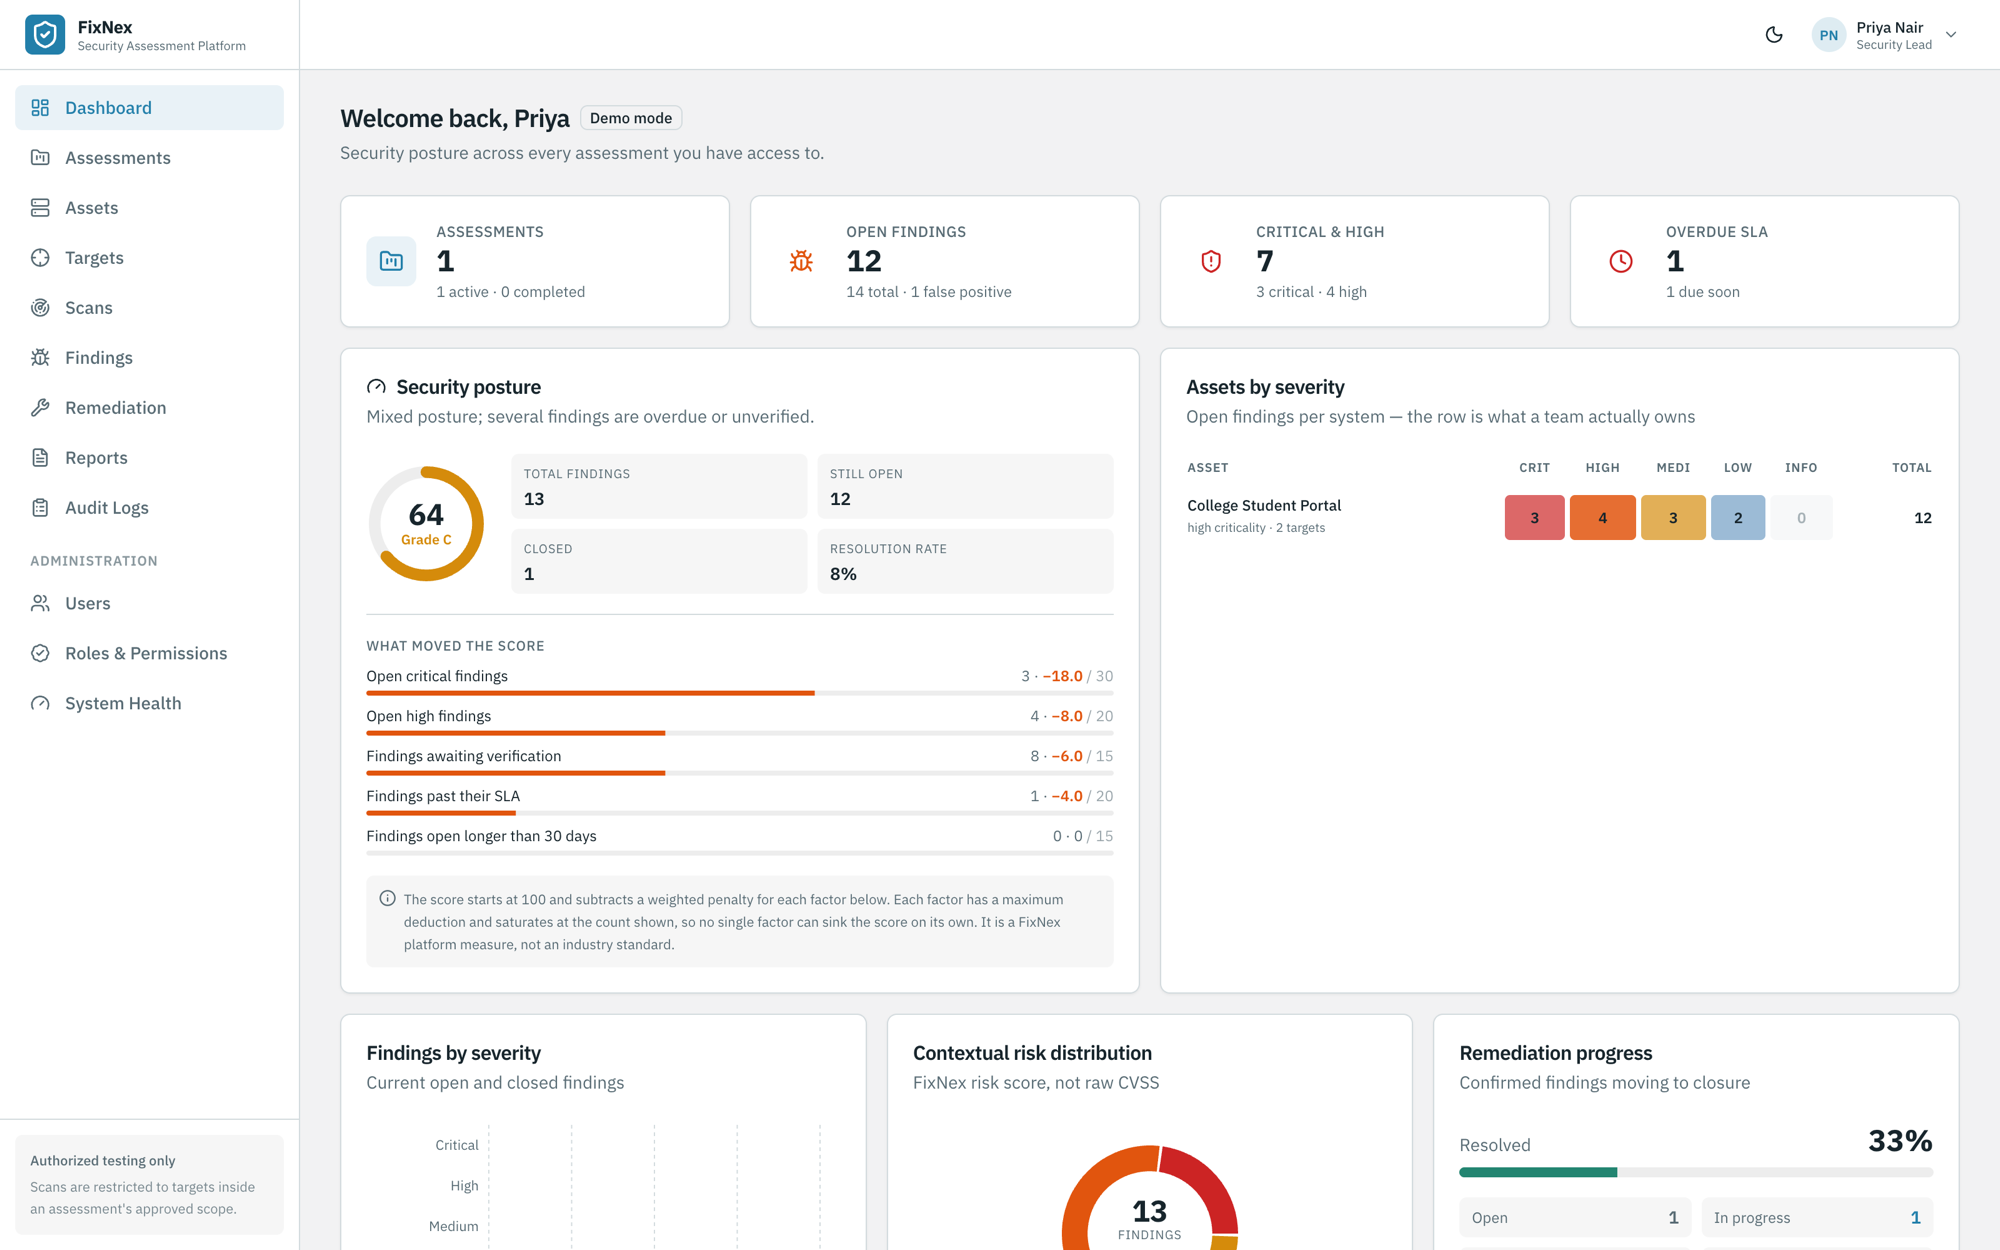
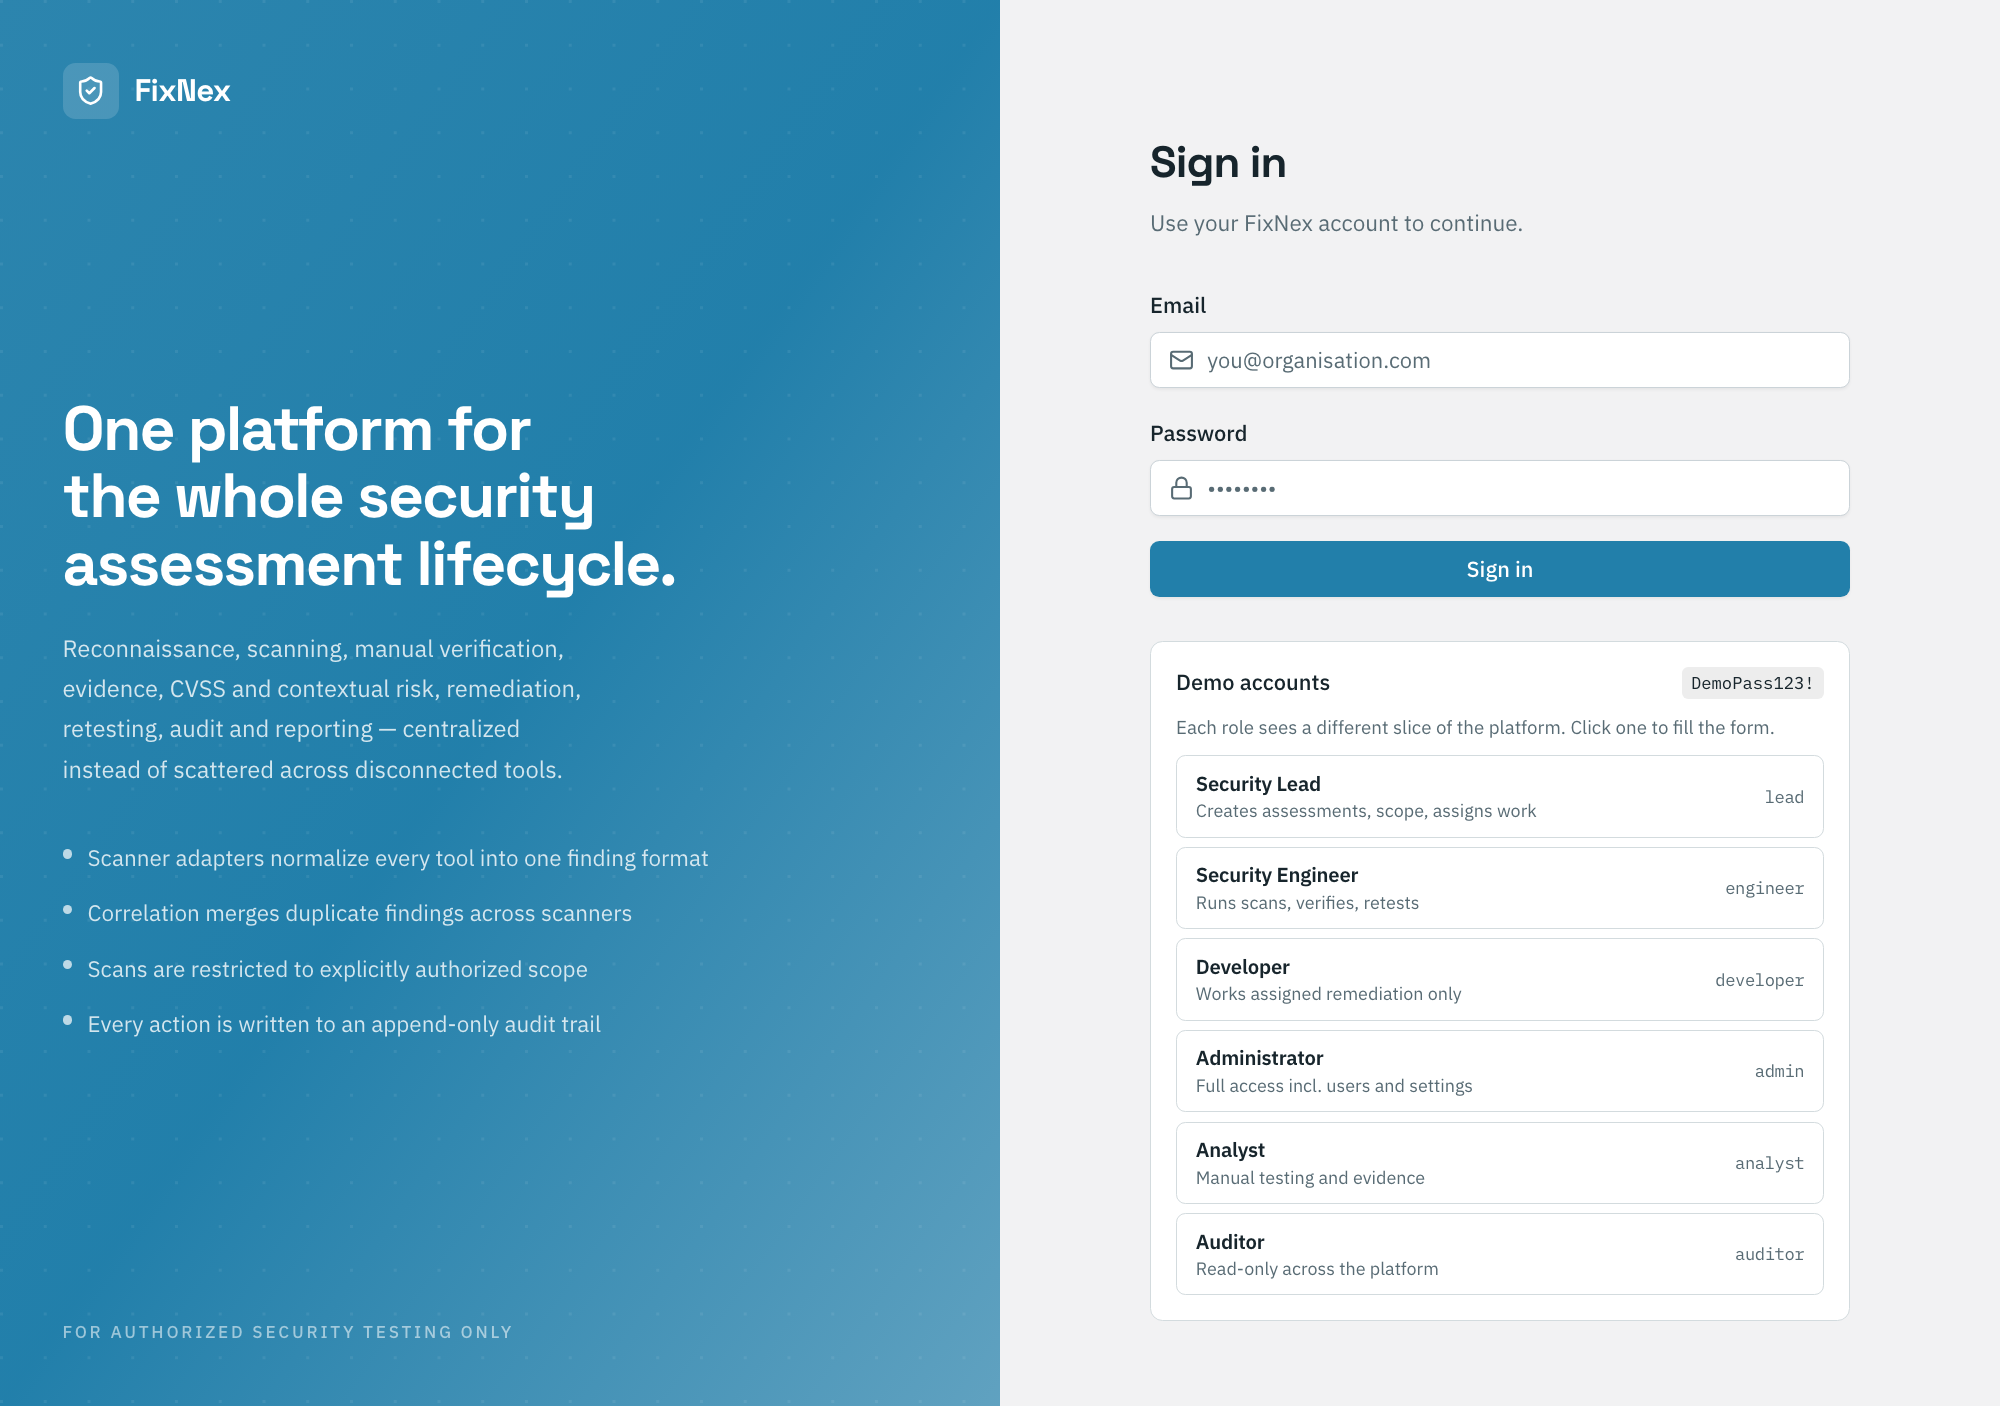
Update README for the motion work, type system and demo-account risk
- Replace docs/screenshots/login.png, which contained a dashboard capture
  rather than the sign-in page, with the actual login screen
- Record Motion and the Space Grotesk display face in the stack
- Document the motion system as a design decision, including the two places
  it deliberately departs from Motion
- Document RUN_MIGRATIONS_ON_STARTUP and SEED_ON_STARTUP, both of which are
  set in the deployment but were missing from the table
- Warn that the seeded demo accounts include a published ADMIN credential,
  with the order of operations for hardening an exposed instance
- Correct the project tree, which still carried the pre-rename directory name

diff --git a/README.md b/README.md
@@ -97,7 +97,8 @@ scanner names its fallback rather than presenting as a failure.</td>
 <td width="50%"><img src="docs/screenshots/dashboard-dark.png" alt="Dark theme"></td>
 </tr>
 <tr>
-<td><b>Sign in.</b> Six demo roles, each seeing a different slice of the platform.</td>
+<td><b>Sign in.</b> Six demo roles, each seeing a different slice of the platform. Click a
+role to fill the form.</td>
 <td><b>Dark theme.</b> The same hue family taken to a deep slate-teal, so both themes read
 as one product.</td>
 </tr>
@@ -188,7 +189,8 @@ Jinja2 + WeasyPrint (fpdf2 fallback), pandas + openpyxl.
 
 **Frontend** — React 19, Vite, TypeScript, Tailwind CSS, shadcn/ui-style components on
 Radix primitives, React Router, TanStack Query, Axios, React Hook Form + Zod, Recharts,
-Lucide icons.
+Motion (animation), Lucide icons. Type is IBM Plex Sans and IBM Plex Mono throughout,
+with Space Grotesk reserved for the sign-in headline and wordmark.
 
 ---
 
@@ -275,6 +277,23 @@ All demo accounts use the password **`DemoPass123!`**
 > Demo data is labelled **DEMO DATA** everywhere it appears — in the UI, the API
 > (`data_origin: SEEDED_DEMO`) and generated reports. It is never presented as the
 > output of a scan that actually ran.
+
+> [!WARNING]
+> **These accounts are for demonstration, not deployment.** The password above is
+> published in this README and printed on the sign-in page, and `admin@prcampus.io`
+> holds the `ADMIN` role — full access including users and settings. On any
+> internet-reachable instance that is a working administrator credential for anyone
+> who finds the URL. There is no public registration, so sign-in is the only way in,
+> which is exactly why this matters.
+>
+> Before exposing an instance beyond a demo:
+>
+> 1. Create your own administrator **first** — user creation requires `USER_CREATE`,
+>    so removing the demo admin before you have another one locks you out.
+> 2. Set `SEED_ON_STARTUP=false`. Deleting the demo users alone is not enough: an empty
+>    database re-seeds the whole set, published password included.
+> 3. Remove or downgrade the demo `ADMIN` account, and rotate `DEMO_PASSWORD` in
+>    `backend/app/seed/demo.py` if you keep the rest for a public showcase.
 
 ---
 
@@ -432,6 +451,8 @@ Copy `.env.example` to `.env`. Never commit `.env`.
 | `SLA_HOURS_CRITICAL` … `_LOW` | `24` / `72` / `168` / `336` | Also editable in-app |
 | `ANTHROPIC_API_KEY` | — | Optional; enables AI triage suggestions. Without it the feature reports itself unavailable and nothing else changes |
 | `AI_TRIAGE_MODEL` / `AI_TRIAGE_EFFORT` | `claude-opus-5` / `medium` | Model and reasoning effort for triage suggestions |
+| `RUN_MIGRATIONS_ON_STARTUP` | `false` | Applies Alembic migrations as the app boots — useful where a release step is unavailable |
+| `SEED_ON_STARTUP` | `false` | Seeds the labelled demo dataset when the database holds no assessments. Leave `false` on anything internet-reachable — see [Demo credentials](#demo-credentials) |
 
 ---
 
@@ -504,7 +525,7 @@ needs no external services.
 ## Project structure
 
 ```
-pr-campus/
+FixNex/
 ├── backend/
 │   ├── app/
 │   │   ├── api/routes/      # thin HTTP layer
@@ -562,6 +583,17 @@ same endpoint produce one finding with two sources and raised confidence.
 
 **Audit immutability is structural.** There is no update or delete path for audit records
 anywhere in the service layer, no route exposes one, and no role holds such a permission.
+
+**Motion is one vocabulary, not per-component taste.** Every duration, easing curve and
+variant lives in `frontend/src/lib/motion.ts`, so the feel of the product is tuned in one
+file. No transition runs longer than ~400ms and `prefers-reduced-motion` is honoured
+through a shared hook and matching CSS guards. The one looping animation is a slow
+ambient pulse on CRITICAL severity — deliberately well past the interaction budget, since
+a fast loop reads as an alarm — and it is opt-in per call site, so a dense findings table
+stays still. Two deliberate exceptions: the attack-path graph uses CSS keyframes because
+ReactFlow mounts custom nodes outside the path Motion hooks into (its timings still come
+from `motion.ts`), and list entrances are latched to first paint so a background refetch
+never replays the cascade under someone who is reading the table.
 
 ---
 
